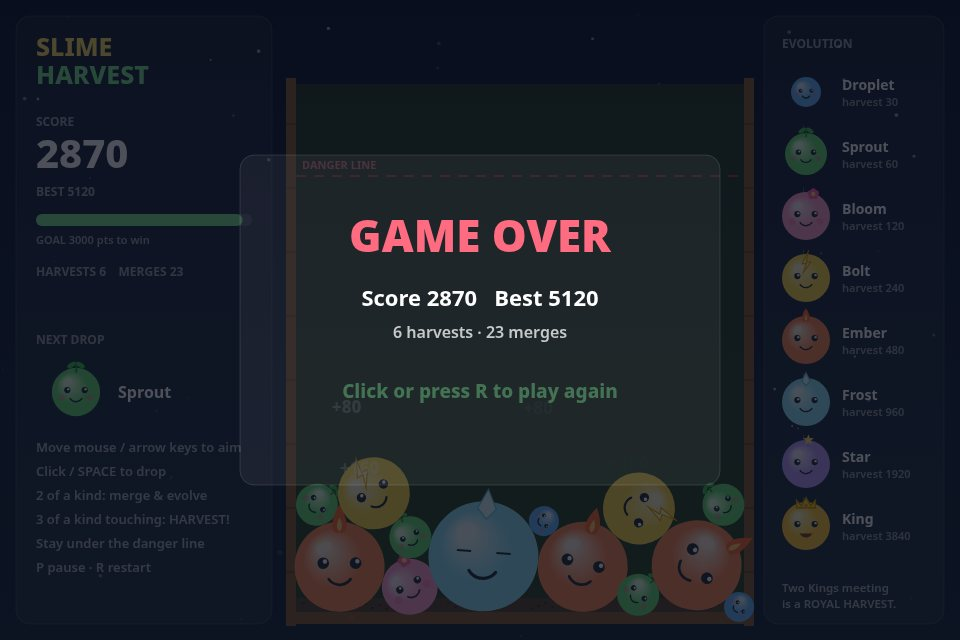
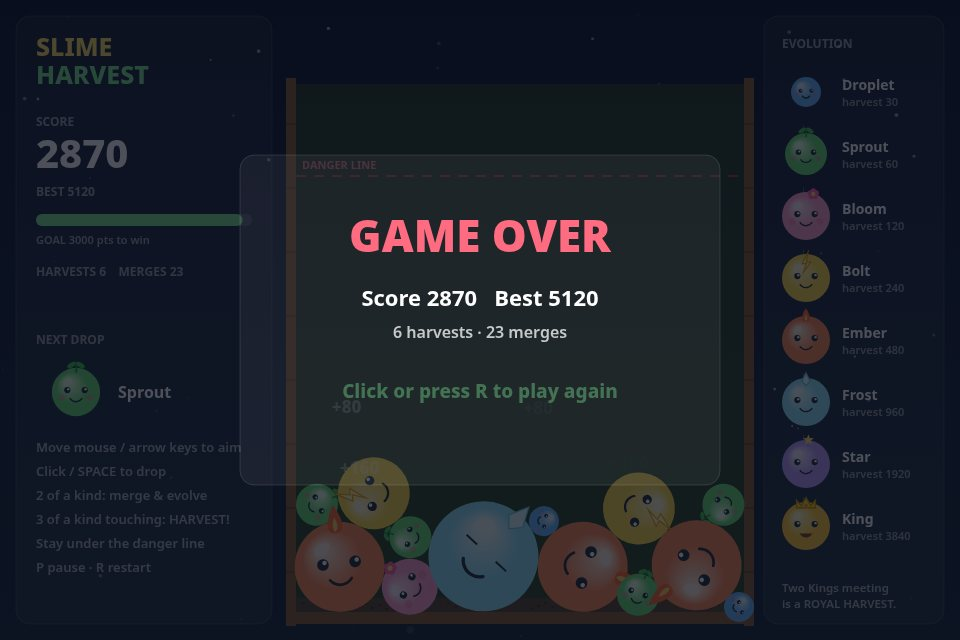
Let the faces tumble: no self-righting, stronger contact spin
Playtest feedback, round two: the faces still looked glued upright,
because settled slimes eased back to upright and contact spin was too
weak to see. The easing is gone - a slime keeps whatever tilt it stops
with - and glancing contacts now spin three times as much, so slimes
visibly roll over each other's backs, faces and all.

diff --git a/game/src/world.js b/game/src/world.js
@@ -124,11 +124,11 @@ function stepPhysics(world, h) {
         a.vy -= impulse * ny * aShare * 2;
         b.vx += impulse * nx * bShare * 2;
         b.vy += impulse * ny * bShare * 2;
-        // A glancing blow sets them spinning a little. (Applied every
-        // substep while in contact, so this must stay tiny.)
+        // A glancing blow sets them spinning. Rolling over a neighbour's
+        // back is where most of the tumbling comes from.
         const tangential = rvx * -ny + rvy * nx;
-        a.angVel -= (tangential * 0.02) / Math.max(12, a.r);
-        b.angVel -= (tangential * 0.02) / Math.max(12, b.r);
+        a.angVel -= (tangential * 0.06) / Math.max(12, a.r);
+        b.angVel -= (tangential * 0.06) / Math.max(12, b.r);
       }
     }
   }
@@ -241,13 +241,8 @@ export function stepWorld(world, dt) {
     s.squash = Math.max(0, s.squash - dt * 5);
     s.vx *= 0.999;
     if (s.angle === undefined) { s.angle = 0; s.angVel = 0; }
-    // Once a slime settles, it rights itself: faces end up readable again.
-    const speed = Math.hypot(s.vx, s.vy);
-    if (speed < 30 && Math.abs(s.angVel) < 0.8) {
-      const upright = Math.round(s.angle / (Math.PI * 2)) * Math.PI * 2;
-      s.angle += (upright - s.angle) * Math.min(1, dt * 7);
-      s.angVel *= 0.75;
-    }
+    // No self-righting: a slime keeps the tilt it stops with, face and all.
+    // Settled piles read as a crowd of faces pointing every which way.
   }
   resolveRules(world);
 
